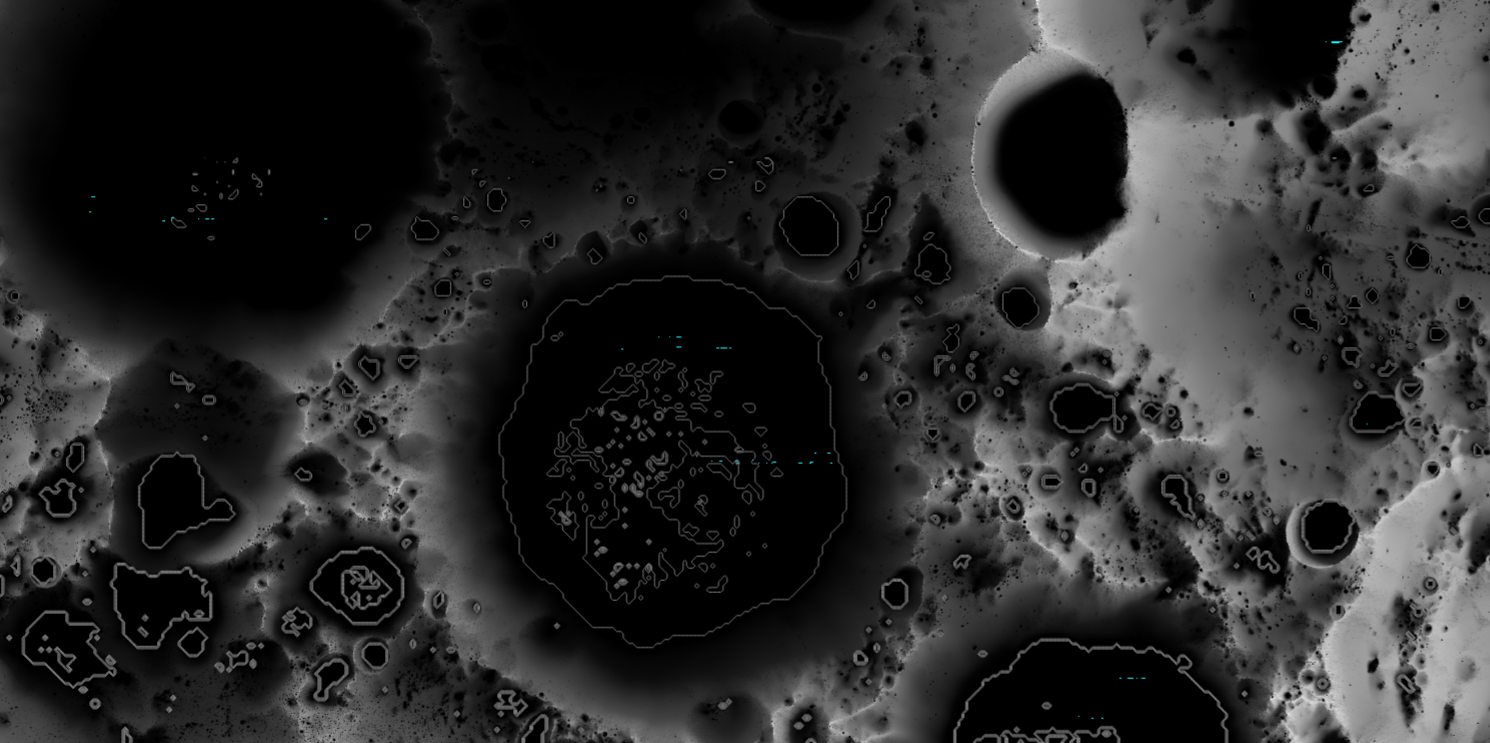
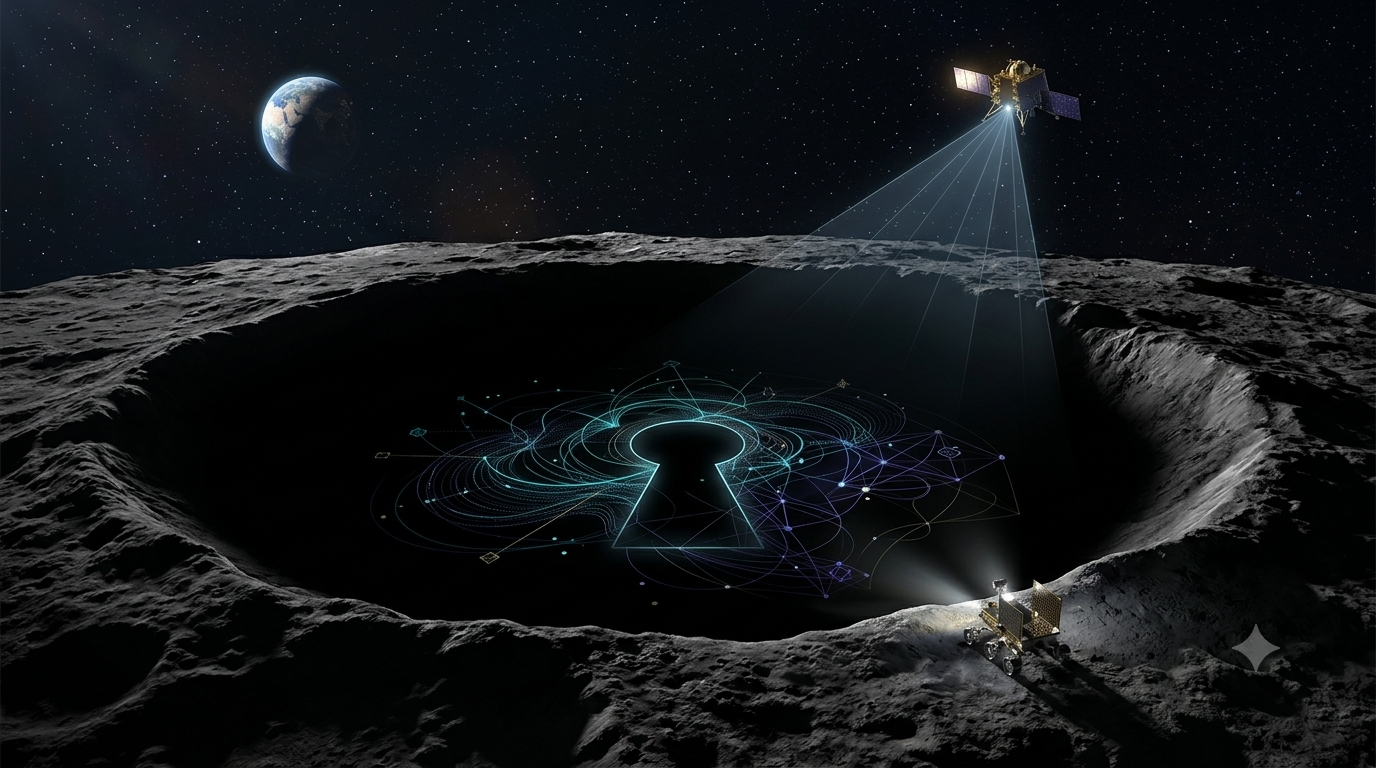
.

diff --git a/README.md b/README.md
@@ -1,7 +1,7 @@
 <div align="center">
 
-![3D Terrain Visualization](assets/banner.png)
 
+![3D Terrain Visualization](assets/banner.png)
 # Project D.R.I.S.H.T.I.
 ### **D**ual-Frequency **R**adar **I**nformed **S**ubsurface **H**ydration & **T**errain **I**ntelligence
 
@@ -27,7 +27,7 @@
 
 ---
 
-## 🌌 Overview
+##  Overview
 
 **Project D.R.I.S.H.T.I** is a unified physics-constrained framework developed for the **Bharatiya Antariksh Hackathon 2026**. It integrates fully polarimetric radar scattering physics (CPR-FP, DOP, SRI), Maxwell-Garnett dielectric mixing models, kinematic geomorphology, and mobility-aware path planning.
 
@@ -53,23 +53,80 @@ Traditional radar-based detection methods often ignore spatial terrain heterogen
 
 ---
 
-## 🔬 Physics Core & Mathematical Foundation
+## Physics Core & Mathematical Foundation
 
-DRISHTI uses full-polarimetric radar processing and scattering physics to eliminate false positives:
+> *"To distinguish true volumetric ice scattering from topographic phase noise, DRISHTI models full-polarimetric radar vector fields, dielectric mixing behavior, and surface-subsurface scattering mechanics within a unified mathematical framework."*
 
-* **Polarimetric Disambiguation Rules (Crater Shoemaker PoC):**
-  * $\text{High CPR} + \text{Low DOP} \implies \text{Volumetric multiple-scattering (True Ice Candidate)}$
-  * $\text{High CPR} + \text{Slope} (>12^\circ) \implies \text{Dihedral surface roughness / Rocky Ejecta (False Positive)}$
-  * $\text{PSR Mask} + \text{CPR Anomaly} \implies \text{Thermally plausible cold trap ice zone}$
-  * $\text{High CPR} + \text{Low OHRC-SRI} \implies \text{Decoupled surface roughness (Subsurface Volumetric Ice)}$
+---
 
-### Maxwell-Garnett Dielectric Modeling
-To estimate effective permittivity ($\epsilon_{eff}$) and ice volume fraction ($f$), the framework models the dielectric behavior of regolith-ice mixtures:
+### 1. Polarimetric Vector Formulation & Coherency Matrix $[T_3]$
 
-$$\epsilon_{eff} = \epsilon_m \frac{1 + 2f \frac{\epsilon_i - \epsilon_m}{\epsilon_i + 2\epsilon_m}}{1 - f \frac{\epsilon_i - \epsilon_m}{\epsilon_i + 2\epsilon_m}}$$
+The polarimetric target vector $\vec{k}$ is constructed from the complex scattering matrix elements $(S_{HH}, S_{VV}, S_{HV})$ assuming target reciprocity ($S_{HV} = S_{VH}$)[cite: 1]:
 
-*Where $\epsilon_m$ represents matrix permittivity of dry lunar regolith and $\epsilon_i$ represents ice permittivity.*
+$$\vec{k} = \frac{1}{\sqrt{2}} \begin{bmatrix} S_{HH} + S_{VV} \\ S_{HH} - S_{VV} \\ 2S_{HV} \end{bmatrix}$$
 
+Applying spatially averaged multilooking and $9 \times 9$ Refined Lee speckle filtering yields the $3 \times 3$ Coherency Matrix $[T_3]$[cite: 1]:
+
+$$[T_3] = \langle \vec{k} \cdot \vec{k}^\dagger \rangle = \begin{bmatrix} T_{11} & T_{12} & T_{13} \\ T_{21} & T_{22} & T_{23} \\ T_{31} & T_{32} & T_{33} \end{bmatrix}$$
+
+---
+
+### 2. Stokes Parameters Computation
+
+From the quasi-monochromatic backscattered electromagnetic wave field $E = [E_x, E_y]^T$, the Stokes vector $\vec{S} = [S_0, S_1, S_2, S_3]^T$ completely characterizes total wave intensity and polarization state[cite: 1]:
+
+$$\begin{aligned}
+S_0 &= \langle |E_x|^2 \rangle + \langle |E_y|^2 \rangle \quad &&\text{(Total Received Backscattered Power)} \\
+S_1 &= \langle |E_x|^2 \rangle - \langle |E_y|^2 \rangle \quad &&\text{(Linear Horizontal vs. Vertical Power Difference)} \\
+S_2 &= 2 \operatorname{Re}\left( \langle E_x E_y^* \rangle \right) \quad &&\text{(Linear $+45^\circ$ vs. $-45^\circ$ Power Difference)} \\
+S_3 &= 2 \operatorname{Im}\left( \langle E_x E_y^* \rangle \right) \quad &&\text{(Right-handed vs. Left-handed Circular Power Difference)}
+\end{aligned}$$
+
+---
+
+### 3. Key Polarimetric Radar Metrics
+
+#### Circular Polarization Ratio ($\text{CPR}$)
+Calculates the ratio of Same-Sense ($\sigma_{LL}^\circ$) to Opposite-Sense ($\sigma_{LR}^\circ$) circular polarization backscatter to identify volumetric multiple scattering indicative of water ice[cite: 1]:
+
+$$\text{CPR} = \frac{\sigma_{LL}^\circ}{\sigma_{LR}^\circ} = \frac{S_0 - S_3}{S_0 + S_3}$$
+
+$$\text{CPR} \begin{cases} < 1.0 & \text{Dry Regolith / Single-bounce Surface Scattering} \\ \approx 1.0 & \text{Surface Roughness / Rocky Ejecta Blocks} \\ > 1.0 & \text{Subsurface Water Ice / Volumetric Multiple Scattering} \end{cases}$$
+
+#### Degree of Polarization ($\text{DOP}$)
+Quantifies the proportion of polarized wave energy relative to total power, isolating coherent surface reflections from depolarized subsurface scatter[cite: 1]:
+
+$$\text{DOP} = \frac{\sqrt{S_1^2 + S_2^2 + S_3^2}}{S_0}$$
+
+---
+
+### 4. Maxwell-Garnett Dielectric Forward Modeling
+
+To transform radar metrics into quantitative subsurface ice volume fraction ($f$) within the top 5 meters of lunar regolith, DRISHTI implements the Maxwell-Garnett effective medium theory for spherical ice inclusions embedded in a regolith matrix[cite: 1]:
+
+$$\epsilon_{eff} = \epsilon_m \left[ \frac{1 + 2f \left( \frac{\epsilon_i - \epsilon_m}{\epsilon_i + 2\epsilon_m} \right)}{1 - f \left( \frac{\epsilon_i - \epsilon_m}{\epsilon_i + 2\epsilon_m} \right)} \right]$$
+
+| Parameter | Physical Interpretation | Value / Constraint |
+| :--- | :--- | :--- |
+| $\epsilon_{eff}$ | Measured Effective Permittivity | $2.70 \text{ to } 3.15$[cite: 1] |
+| $\epsilon_m$ | Permittivity of Dry Lunar Regolith Matrix | $\approx 2.70$[cite: 1] |
+| $\epsilon_i$ | Permittivity of Pure Water Ice Inclusions | $\approx 3.15$[cite: 1] |
+| $f$ | Subsurface Ice Volume Fraction | $0.0 \le f \le 1.0$[cite: 1] |
+
+---
+
+### 5. Multi-Criteria Disambiguation Decision Engine
+
+To prevent false positives caused by surface roughness or steep crater rims, DRISHTI cross-evaluates radar physics against optical morphology and illumination constraints[cite: 1]:
+
+$$
+\begin{aligned}
+\text{High CPR} + \text{Low DOP} &\implies \mathbf{\text{Volumetric Scattering (High-Confidence Subsurface Ice)}} \\
+\text{High CPR} + \text{Slope} > 12^\circ &\implies \mathbf{\text{Dihedral Roughness / Rocky Ejecta (False Positive Rejection)}} \\
+\text{PSR / DSR Mask} + \text{CPR Anomaly} &\implies \mathbf{\text{Thermally Stable Cold-Trap Ice Zone}} \\
+\text{High CPR} + \text{Low SRI} &\implies \mathbf{\text{Decoupled Surface Roughness (Subsurface Ice Deposit)}}
+\end{aligned}
+$$
 
 ---
 
@@ -117,7 +174,7 @@ The PoC was benchmarked using Chandrayaan-2 DFSAR observations over **Crater Sho
 
 ---
 
-## 🛠️ Tech Stack
+##  Tech Stack
 
 * **Modeling & Processing:** Python, NumPy, SciPy, Pandas, OpenCV-Python, scikit-image, PyProj, Statsmodels, MIDAS
 * **Radar & Geospatial Analysis:** QGIS, GDAL Driver, Rasterio
@@ -129,6 +186,28 @@ The PoC was benchmarked using Chandrayaan-2 DFSAR observations over **Crater Sho
 
 **"We, as a dedicated team, are excited and humbled to solve this problem and actively contribute to India's Future Lunar Mission."**
 
-[GitHub Repository](https://github.com/Deepmalya2506/DRISHTI)
+
+<h2>👥 Contributors</h2>
+<div style="display:flex; overflow-x:auto; gap:20px; padding:10px;">
+  <div style="flex:0 0 auto; text-align:center;">
+    <img src="https://avatars.githubusercontent.com/u/179570050?v=4" width="100" style="border-radius:50%;"/><br/>
+    <a href="https://github.com/rAdvirtua">Anurag</a><br/>
+    <small>AI/ML</small>
+  </div>
+  <div style="flex:0 0 auto; text-align:center;">
+    <img src="https://avatars.githubusercontent.com/u/181513401?v=4" width="100" style="border-radius:50%;"/><br/>
+    <a href="https://github.com/GamedAreS2176">Ujaan</a><br/>
+    <small>FullStack</small>
+  </div>
+  <div style="flex:0 0 auto; text-align:center;">
+    <img src="https://avatars.githubusercontent.com/u/211628883?v=4" width="100" style="border-radius:50%;"/><br/>
+    <a href="https://github.com/RishavKumarMishra2006">UI/UX </a><br/>
+    <small>Data Scientist</small>
+  </div>
+</div>
+
+## Thanking You All
 
 </div>
+
+